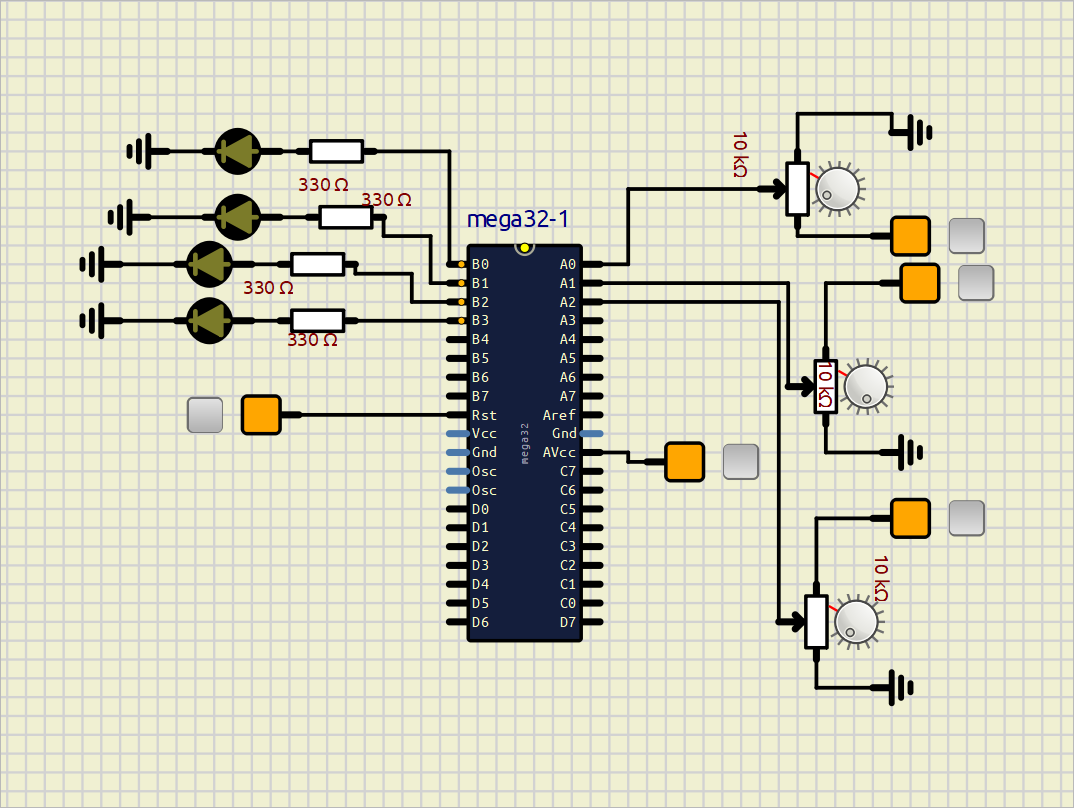
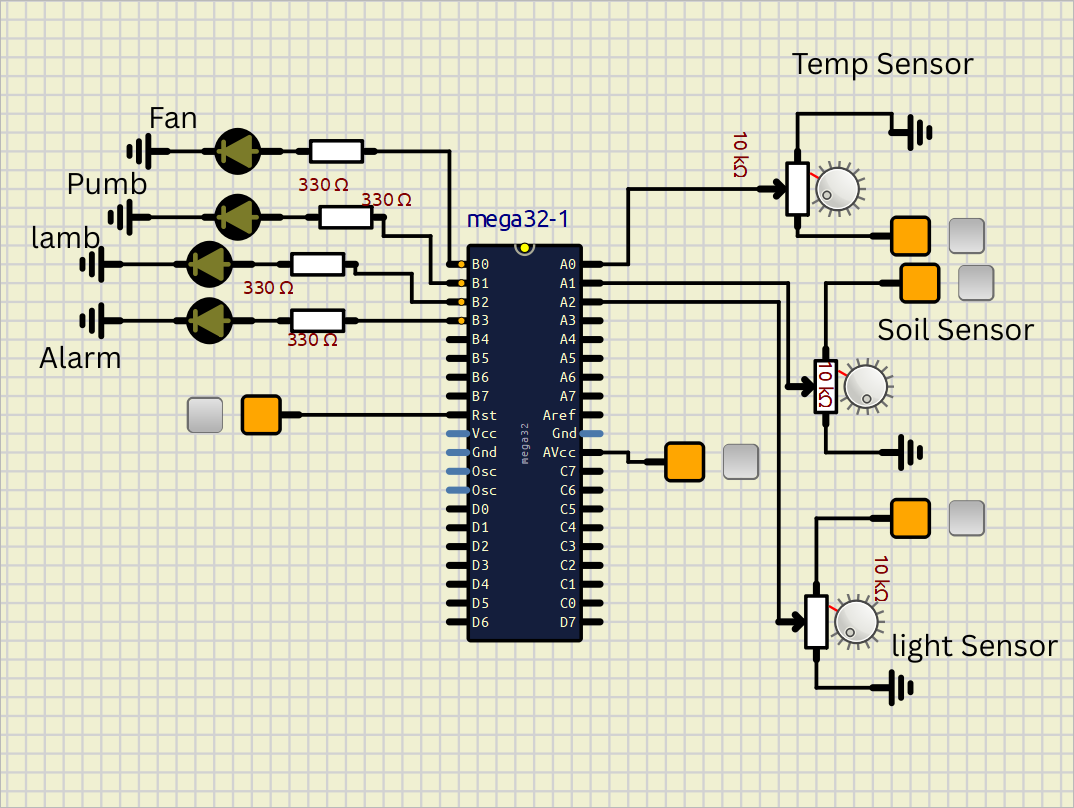
edit in docs

diff --git a/docs/Sensors & Actuators/Sensors & Actuators.c b/docs/Sensors & Actuators/Sensors & Actuators.c
@@ -1,0 +1,55 @@
+#include "STD_TYPES.h"
+#include "Sensors_Driver.h"
+#include "Actuators_Driver.h"
+
+int main(void)
+{
+    uint16 tempRaw = 0;
+    uint16 soilRaw = 0;
+    uint16 lightRaw = 0;
+
+    uint8 temp = 0;
+    uint8 soil = 0;
+    uint8 light = 0;
+
+    /* Initialize Sensors + Actuators */
+    Sensors_Init();
+    ACT_Init();
+
+    while (1)
+    {
+        /* Read all sensors */
+        Sensors_ReadRaw(&tempRaw, &soilRaw, &lightRaw);
+
+        /* Convert ADC readings */
+        Sensors_ScaleTempC(tempRaw, &temp);
+        Sensors_ScalePct(soilRaw, &soil);
+        Sensors_ScalePct(lightRaw, &light);
+
+        /* FAN: Temperature > 25°C */
+        if (temp > 25)
+            ACT_Set(ACTUATOR_FAN, ACT_STATE_ON);
+        else
+            ACT_Set(ACTUATOR_FAN, ACT_STATE_OFF);
+
+        /* PUMP: Soil < 50% */
+        if (soil < 50)
+            ACT_Set(ACTUATOR_PUMP, ACT_STATE_ON);
+        else
+            ACT_Set(ACTUATOR_PUMP, ACT_STATE_OFF);
+
+        /* LAMP: Light < 50% */
+        if (light < 50)
+            ACT_Set(ACTUATOR_LAMP, ACT_STATE_ON);
+        else
+            ACT_Set(ACTUATOR_LAMP, ACT_STATE_OFF);
+
+        /* ALARM: Temperature > 45°C */
+        if (temp > 45)
+            ACT_Set(ACTUATOR_ALARM, ACT_STATE_ON);
+        else
+            ACT_Set(ACTUATOR_ALARM, ACT_STATE_OFF);
+
+        _delay_ms(200);
+    }
+}
